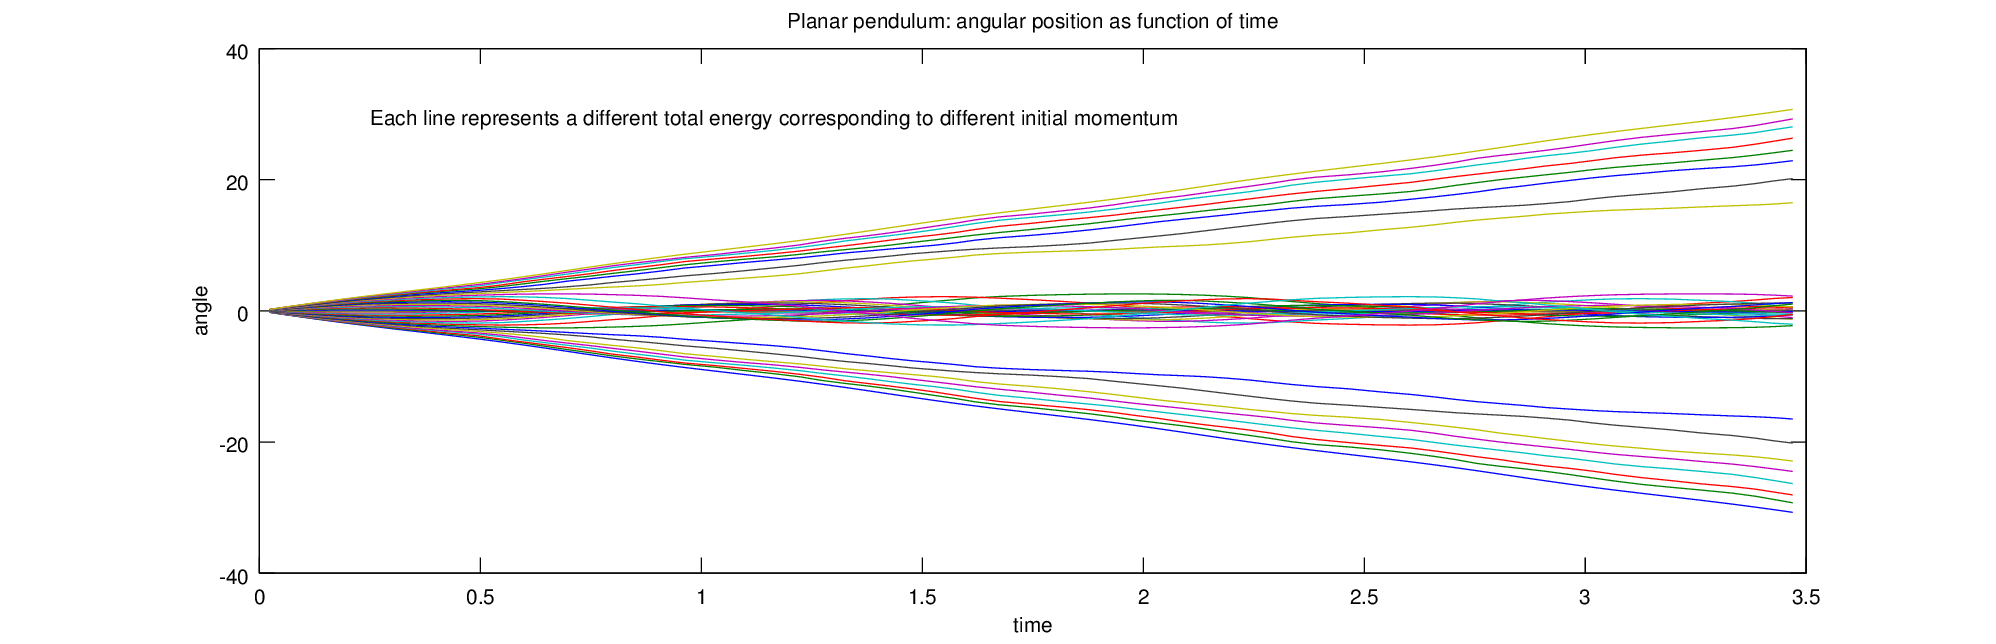
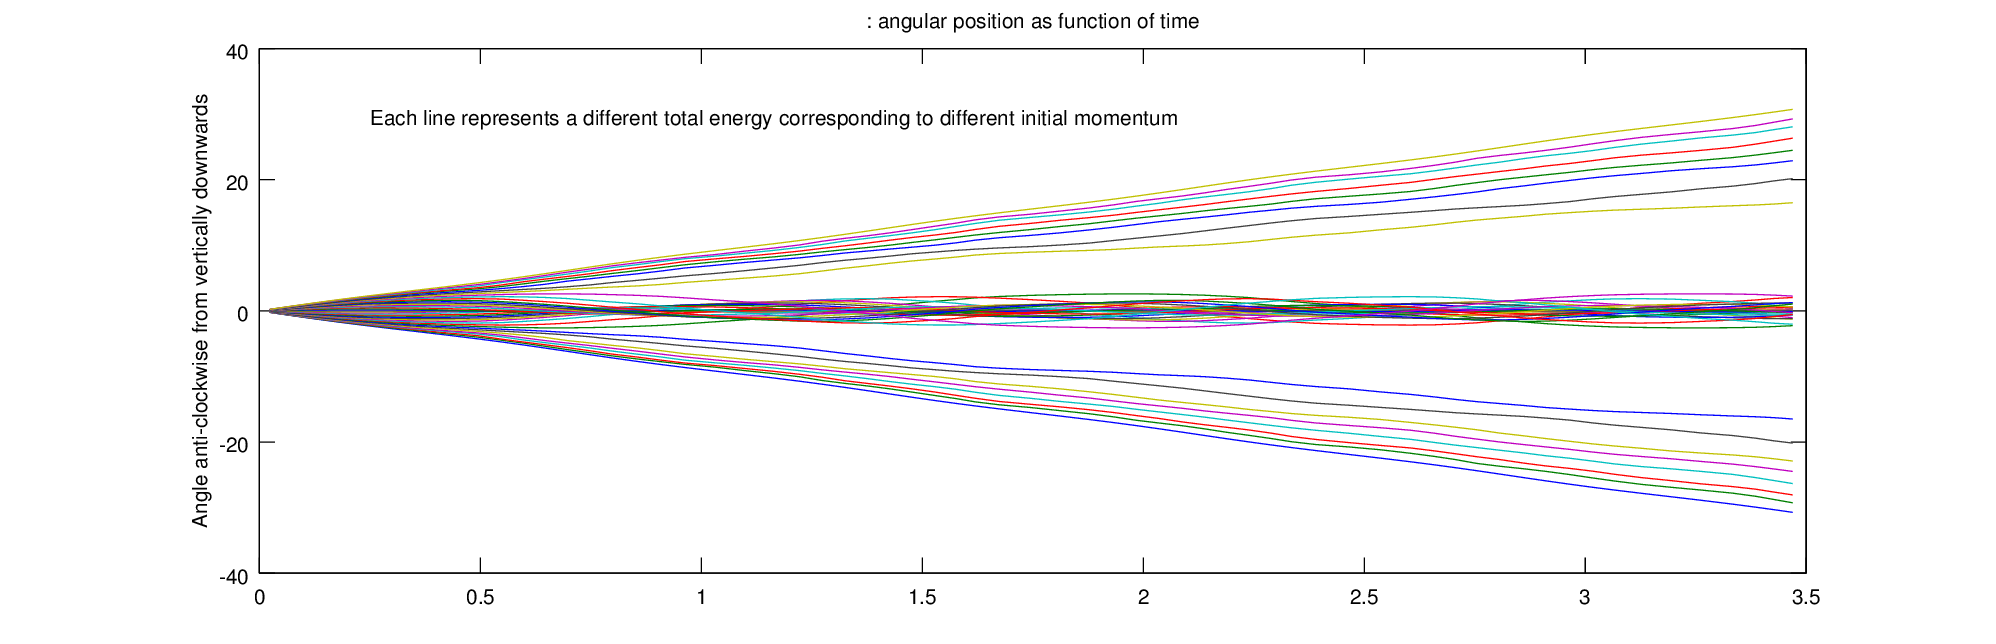
more explanation

diff --git a/netcdf/pendulum-octave.m b/netcdf/pendulum-octave.m
@@ -7,17 +7,17 @@ theta = nc{'θ'}
 
 ## plot the angle timeseries
 plot(time(1:63), theta(1:63,:))
-title("Planar pendulum: angular position as function of time")
-xlabel("time")
-ylabel("angle")
+title([nc.title ": angular position as function of time"])
+xlabel(time.long_name)
+ylabel(theta.long_name)
 text(0.25, 30, "Each line represents a different total energy\ncorresponding to different initial momentum")
 print -dpng pendulum_theta_time.png
 
 ## plot the phase-space diagram
 plot(theta(1:35, :), p(1:35, :))
 axis([-2*pi, 2*pi])
-title("Planar pendulum: phase space diagram")
-xlabel("angle")
-ylabel("momentum")
+title([nc.title ": phase space diagram"])
+xlabel(theta.long_name)
+ylabel(p.long_name)
 text(-8, 13, "Each line represents a different total energy\ncorresponding to different initial momentum")
 print -dpng pendulum_theta_p.png

diff --git a/netcdf/index.md b/netcdf/index.md
@@ -20,7 +20,88 @@ simply run the model like this:
 sbt> run model -d 10 -o netcdf:pendulum.nc Pendulum
 ~~~~~
 
-This produces the file [pendulum.nc](pendulum.nc).
+This produces the file [pendulum.nc](pendulum.nc). Some basic
+operations can be done on this file with the standard utility
+programs. On Debian GNU/Linux derived systems these are available in
+the `netcdf-bin` package. The `ncdump` program will display some
+information about the file, and optionally render its metadata in XML
+format: 
+
+~~~~
+% ncdump -h pendulum.nc
+netcdf pendulum {
+dimensions:
+	time = UNLIMITED ; // (183 currently)
+	E = 41 ;
+variables:
+	double time(time) ;
+	double E(E) ;
+		E:units = "J" ;
+		E:long_name = "Total energy" ;
+	double p(time, E) ;
+		p:units = "J.s" ;
+		p:long_name = "Angular momentum" ;
+...
+~~~~~
+
+Similar information, more verbosely presented can be obtained using
+the command with the same name within Octave:
+
+~~~~~
+octave:1> ncdump("pendulum.nc")
+nc = netcdf('pendulum.nc','noclobber');
+
+% dimensions
+
+nc('time') = 183;
+nc('E') = 41;
+
+% variables
+
+nc{'time'} = ncdouble('time');  % 183 elements 
+
+nc{'E'} = ncdouble('E');  % 41 elements 
+nc{'E'}.units = ncchar('J');
+nc{'E'}.long_name = ncchar('Total energy');
+...
+~~~~~
+
+This output is interesting because it explains how to get at the
+variables -- one opens the file with the `netcdf` command and then
+just references the variable names in curly brackets. The two
+dimensions, time and energy, are just arrays. The other values are two
+dimensional matrices, where the rows correspond to time and the
+columns correspond to energies.
+
+Recall that in the pendulum example, the simulation is run 41 times,
+for different iniital conditions (increasing momentum in steps of 0.5
+from -10 to 10 J.s). These initial conditions correspond to different
+energies, but within a single run of the simulation the total energy
+remains the same because there are no dissipative forces. 
+
+The metadata is also accessible, `nc{'p'}.long_name` will retrieve the
+the descriptive string, and this can be used, for example, to label
+plots.
+
+For GNU Octave, we can plot the phase space diagram (angle
+vs. momentum) like so:
+
+{% highlight octave %}
+nc = netcdf("pendulum.nc", "r")
+p = nc{'p'}
+theta = nc{'θ'}
+
+plot(theta(1:35, :), p(1:35, :))
+axis([-2*pi, 2*pi])
+title([nc.title ": phase space diagram"])
+xlabel(theta.long_name)
+ylabel(p.long_name)
+text(-8, 13, "Each line represents a different total energy\ncorresponding to different initial momentum")
+print -dpng pendulum_theta_p.png
+{% endhighlight %}
+
+A fuller example with Octave is
+[pendulum-octave.m](pendulum-octave.m).
 
 ![Phase space diagram](pendulum_theta_p.png)
 ![Angle as a function of time](pendulum_theta_time.png)
